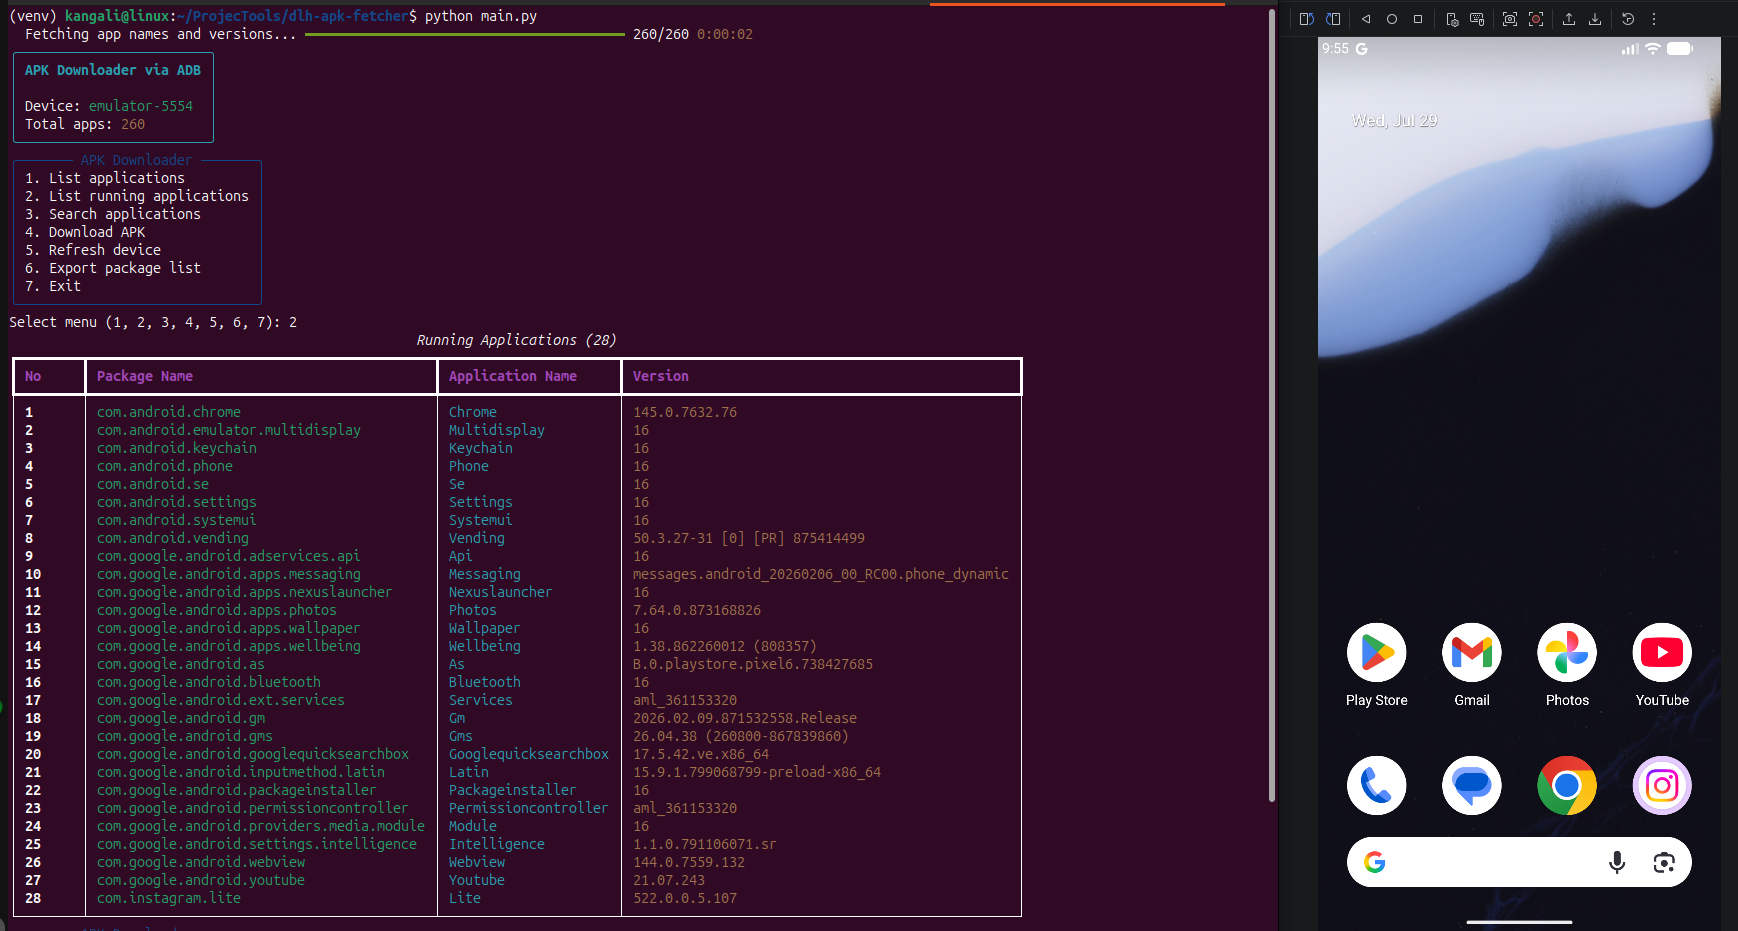
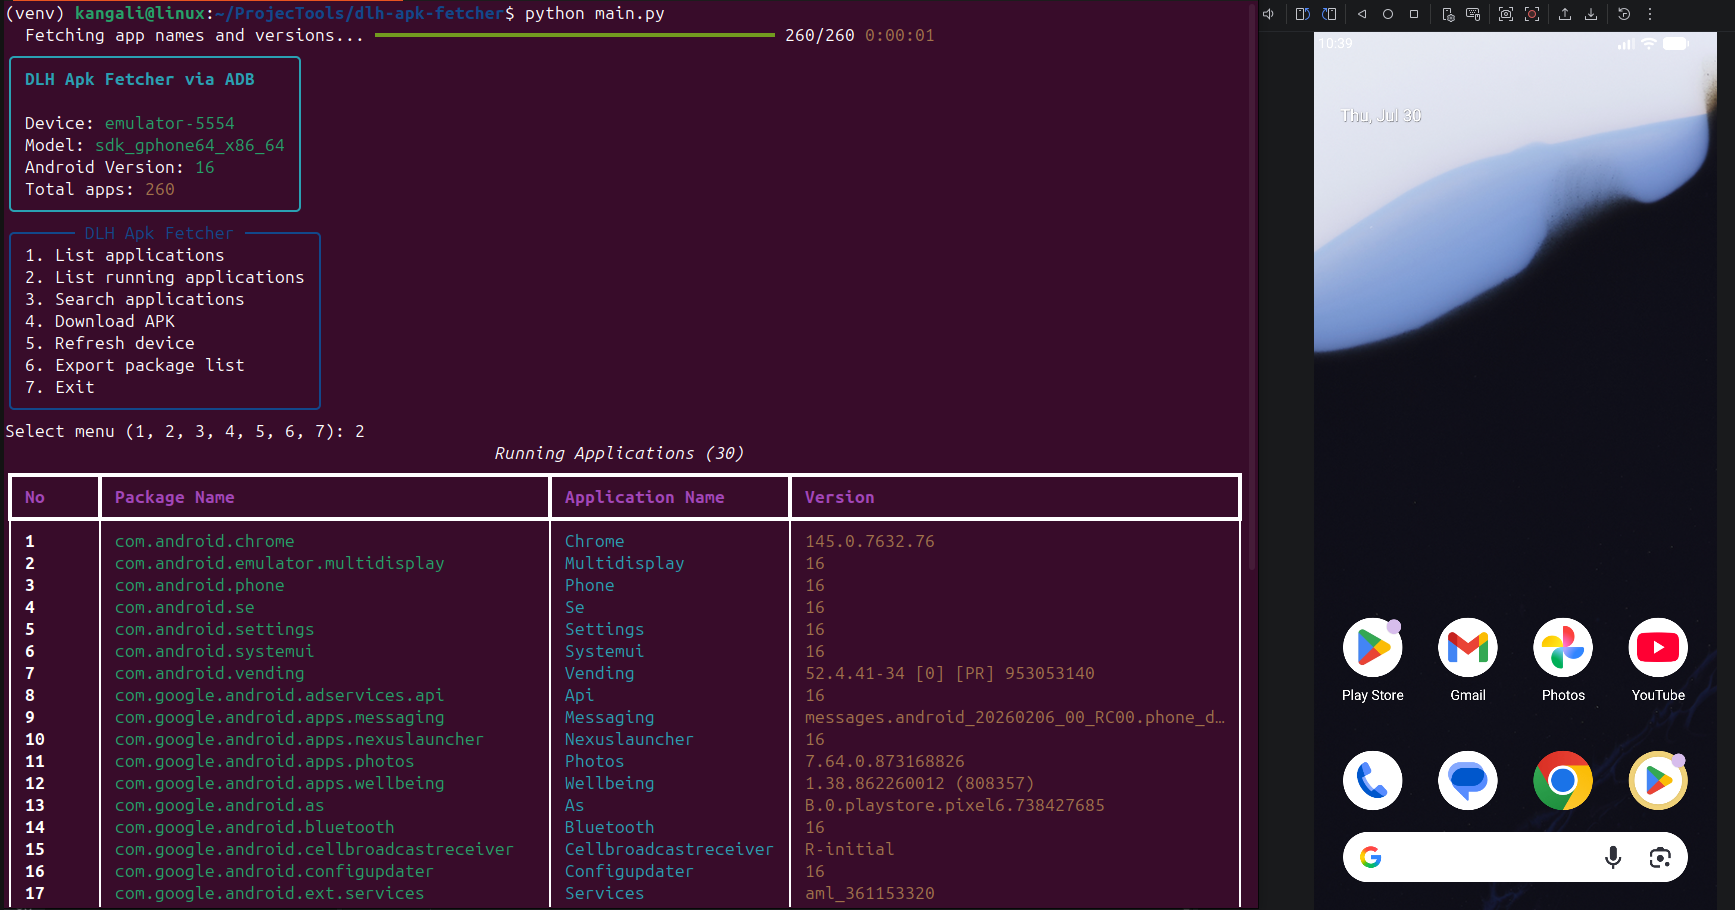
Version 1.1.0

diff --git a/main.py b/main.py
@@ -39,7 +39,7 @@ def _safe_print(*args: object, **kwargs: object) -> None:
 
 
 class APKDownloaderError(Exception):
-    """Base exception for the APK downloader application."""
+    """Base exception for the DLH Apk Fetcher application."""
 
 
 class ADBNotFoundError(APKDownloaderError):
@@ -58,12 +58,14 @@ class DownloadError(APKDownloaderError):
     """Raised when APK download fails."""
 
 
-@dataclass(slots=True)
+@dataclass
 class Device:
     """Represents a connected Android device."""
 
     serial: str
-    state: str
+    state: str = "device"
+    model: str = ""
+    android_version: str = ""
 
 
 @dataclass(slots=True)
@@ -244,6 +246,29 @@ class DeviceManager:
         """Return the selected device serial."""
         device = self._selected_device or self.ensure_device_selected()
         return device.serial
+
+    def get_device_info(self) -> Device:
+        """Fetch device model name and Android version via getprop."""
+        device = self._selected_device or self.ensure_device_selected()
+        serial = device.serial
+        try:
+            r = self.adb_manager.run_command(
+                ["adb", "shell", "getprop", "ro.product.model"],
+                device_serial=serial,
+            )
+            device.model = r.stdout.strip()
+        except APKDownloaderError:
+            self.logger.warning("Failed to get device model")
+        try:
+            r = self.adb_manager.run_command(
+                ["adb", "shell", "getprop", "ro.build.version.release"],
+                device_serial=serial,
+            )
+            device.android_version = r.stdout.strip()
+        except APKDownloaderError:
+            self.logger.warning("Failed to get Android version")
+        self._selected_device = device
+        return device
 
 
 class PackageManager:
@@ -607,13 +632,16 @@ class CLI:
     def initialize(self) -> None:
         """Initialize ADB and device state."""
         self.adb_manager.check_adb_installed()
-        device = self.device_manager.ensure_device_selected()
+        self.device_manager.ensure_device_selected()
+        device = self.device_manager.get_device_info()
         self.load_packages()
         console.print(
             Panel.fit(
                 (
-                    "[bold cyan]APK Downloader via ADB[/bold cyan]\n\n"
+                    "[bold cyan]DLH Apk Fetcher via ADB[/bold cyan]\n\n"
                     f"Device: [green]{device.serial}[/green]\n"
+                    f"Model: [green]{device.model or 'Unknown'}[/green]\n"
+                    f"Android Version: [green]{device.android_version or 'Unknown'}[/green]\n"
                     f"Total apps: [yellow]{len(self.cached_packages)}[/yellow]"
                 ),
                 border_style="cyan",
@@ -623,10 +651,13 @@ class CLI:
     def refresh(self) -> None:
         """Refresh device and package data."""
         device = self.device_manager.ensure_device_selected()
+        device = self.device_manager.get_device_info()
         self.load_packages()
         console.print(
-            f"[green]Active device:[/green] {device.serial} | "
-            f"[green]Total apps:[/green] {len(self.cached_packages)}"
+            f"[green]Device:[/green] {device.serial} | "
+            f"[green]Model:[/green] {device.model or 'Unknown'} | "
+            f"[green]Android:[/green] {device.android_version or 'Unknown'} | "
+            f"[green]Apps:[/green] {len(self.cached_packages)}"
         )
 
     def main_menu(self) -> None:
@@ -641,7 +672,7 @@ class CLI:
                     "5. Refresh device\n"
                     "6. Export package list\n"
                     "7. Exit",
-                    title="APK Downloader",
+                    title="DLH Apk Fetcher",
                     border_style="blue",
                 )
             )
@@ -768,7 +799,7 @@ class CLI:
 
 @click.command()
 def main() -> None:
-    """Entrypoint for the APK Downloader CLI."""
+    """Entrypoint for the DLH Apk Fetcher CLI."""
     cli = CLI()
     cli.run()
 
